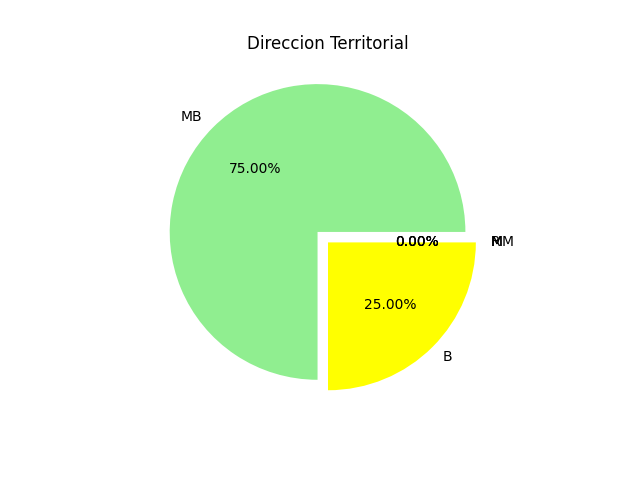
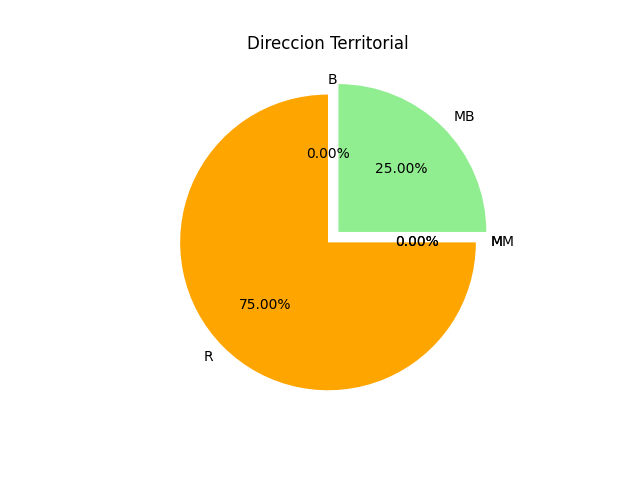
terminada la relacion entre area-encuesta

Changed region(s): [[0.25, 0.1562, 0.7812, 0.8125], [0.2812, 0.2188, 0.3125, 0.25]]

diff --git a/encuesta/views.py b/encuesta/views.py
@@ -1,6 +1,6 @@
 from django.shortcuts import render, redirect
 from django.views.generic import CreateView
-from .models import Encuesta
+from .models import Encuesta, Area_Organizativa
 from .forms import EncuestasForm
 from django.urls import reverse_lazy
 import matplotlib.pyplot as plt
@@ -22,7 +22,7 @@ class EncuestaCreateView(CreateView):
     success_url=reverse_lazy('Final')
 
 def ResumenDT(request):
-    encuestasDT=Encuesta.objects.filter(area__name__exact='Direccion Territorial')
+    encuestasDT=Encuesta.objects.filter(area__nombre='Direccion Territorial')
     ###Direccion Territorial###
     DTcantMB=0
     DTcantB=0
@@ -92,7 +92,7 @@ def ResumenDT(request):
     return render(request, 'dt.html',data)
 
 def ResumenCTA(request):
-    encuestasCTA=Encuesta.objects.filter(area__exact='CTA')
+    encuestasCTA=Encuesta.objects.filter(area__nombre='Centro de Telecomunicaciones Artemisa')
     ###Centro Telefonico Artemisa###
     CTAcantMB=0
     CTAcantB=0
@@ -157,7 +157,7 @@ def ResumenCTA(request):
     return render(request, 'cta.html', data)
 
 def ResumenT(request):
-    encuestasT=Encuesta.objects.filter(area__exact='T')
+    encuestasT=Encuesta.objects.filter(area__nombre='Telepunto')
     ###Telepunto#
     TcantMB=0
     TcantB=0
@@ -221,7 +221,7 @@ def ResumenT(request):
     return render(request, 'tel.html', data)   
 
 def ResumenTT(request):
-    encuestasTT=Encuesta.objects.filter(area__exact='TT')
+    encuestasTT=Encuesta.objects.filter(area__nombre='Taller de Telefonos')
     ###Teller telefonos###
     TTcantMB=0
     TTcantB=0
@@ -285,7 +285,7 @@ def ResumenTT(request):
     return render(request, 'taller_telf.html', data)  
 
 def ResumenALSC(request):
-    encuestasALSC=Encuesta.objects.filter(area__exact='ALSC')
+    encuestasALSC=Encuesta.objects.filter(area__nombre='Area de Logistica y Servicios Chalet')
     ###Chalet###
     ALSCcantMB=0
     ALSCcantB=0
@@ -349,7 +349,7 @@ def ResumenALSC(request):
     return render(request, 'chalet.html', data)
 
 def ResumenUO(request):
-    encuestasUO=Encuesta.objects.filter(area__exact='UO')
+    encuestasUO=Encuesta.objects.filter(area__exact='Unidad Operativa')
     ###Unidad operativa###
     UOcantMB=0
     UOcantB=0
